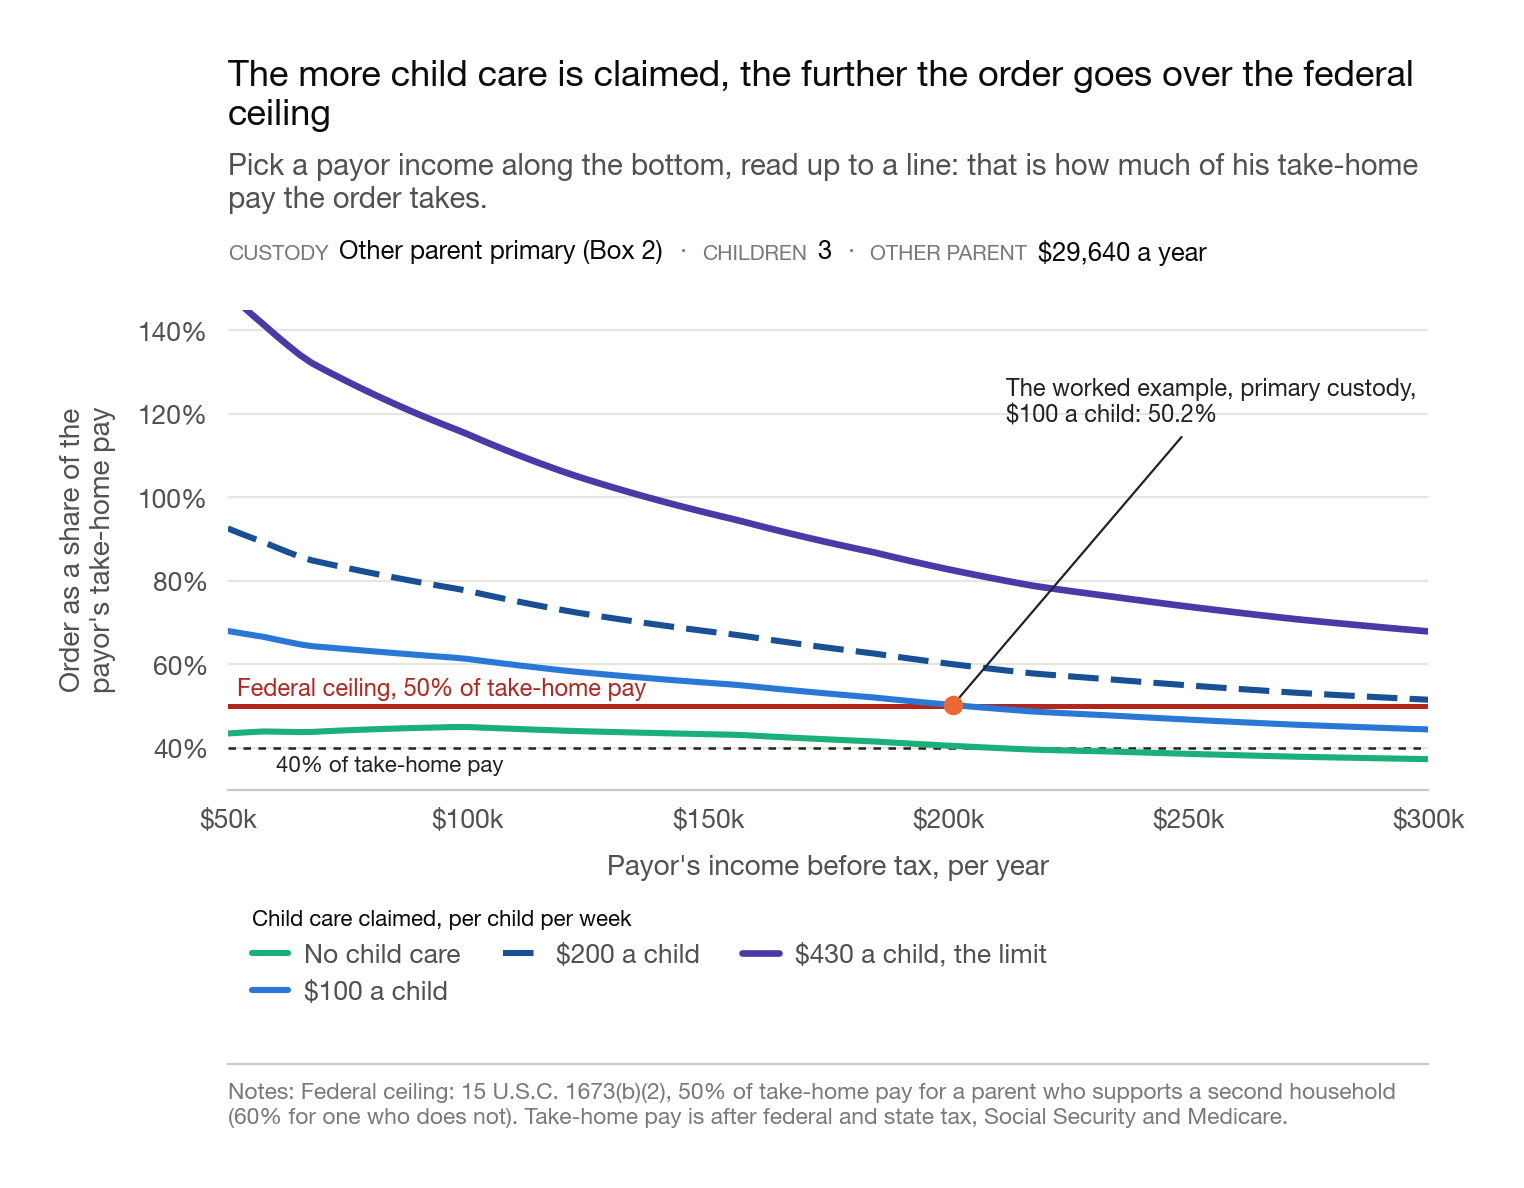
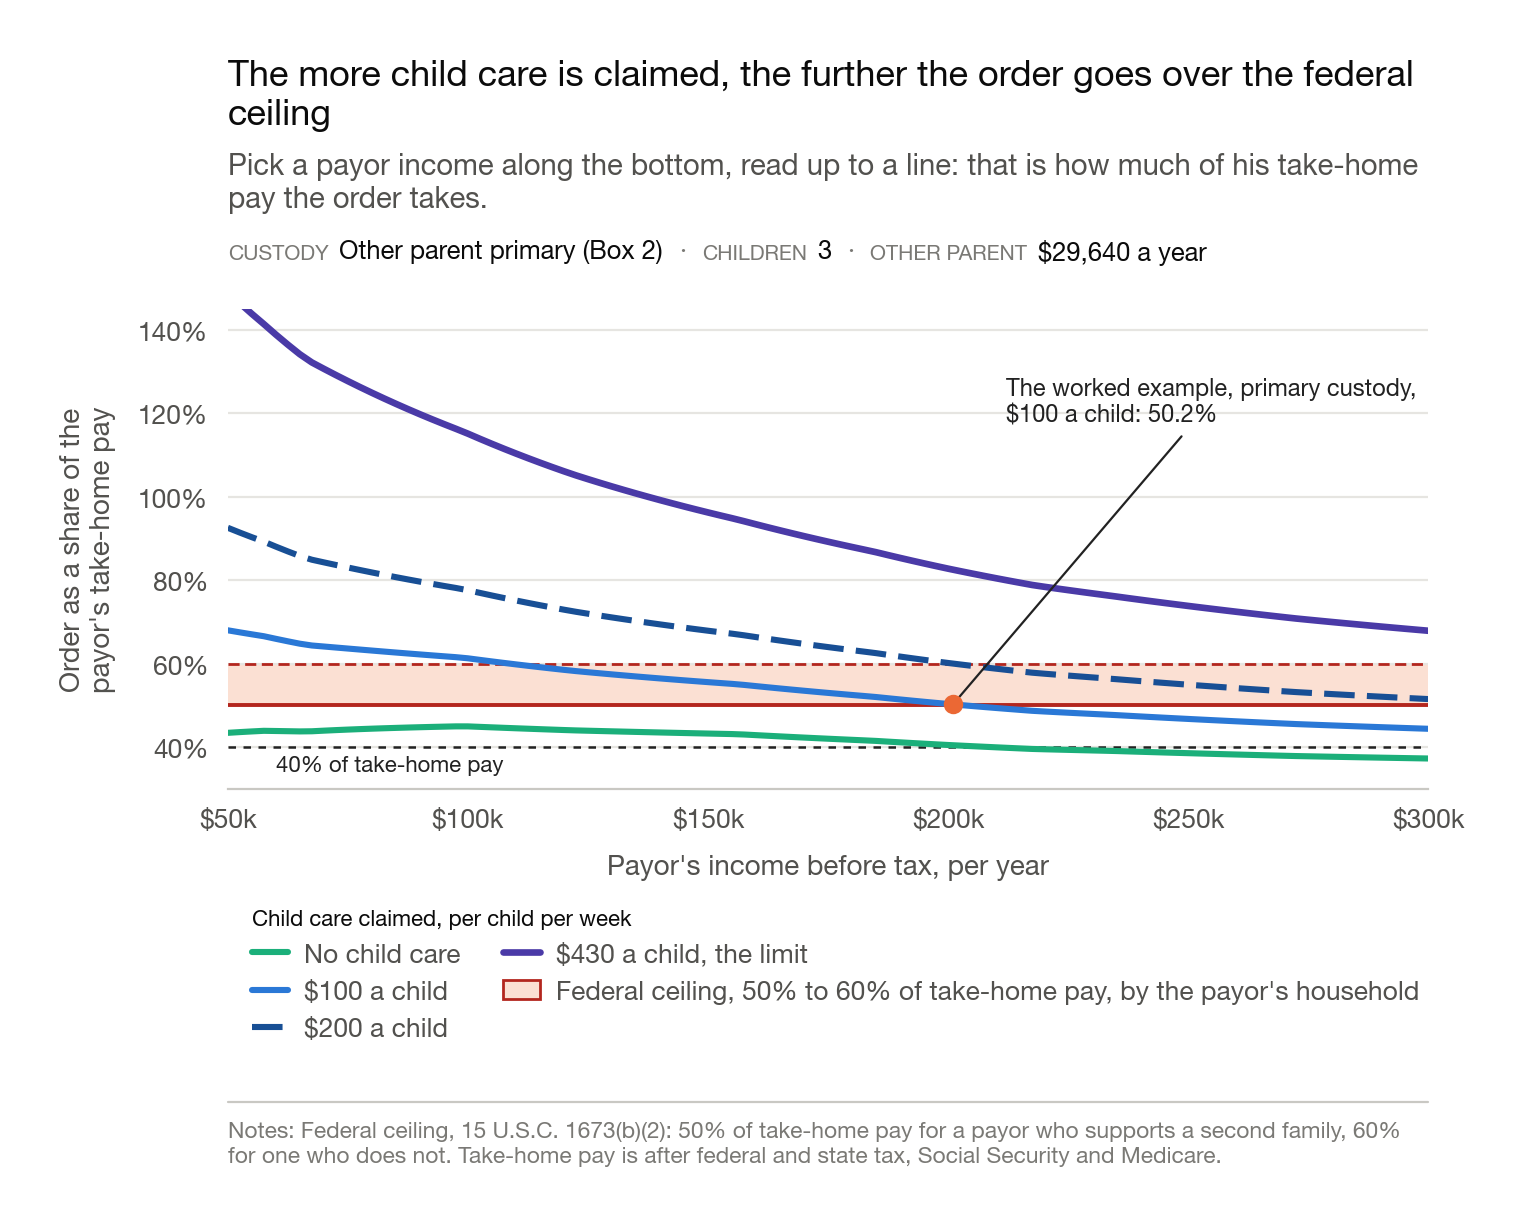
Ceiling charts show the federal ceiling as a 50-60% band by the payor's household; notes and the federal-law page say the Worksheet cannot tell which applies

diff --git a/index.html b/index.html
@@ -44,7 +44,7 @@ scripts:
          alt="Line chart of the share of 1,147 income pairs whose order is above the federal withholding ceiling, as child care claimed rises from $0 to $430 per child per week, for primary custody and for joint custody at equal time."
          title="With child care claimed, the Worksheet produces orders the Commonwealth cannot lawfully collect."
          deck="Share of income pairs whose order is above the federal ceiling, by child care claimed per child per week."
-         notes="Three children. Federal ceiling: 50 percent of take-home pay, 15 U.S.C. § 1673(b)(2). With no child care claimed, no order crosses it."
+         notes="Three children. Federal ceiling, 15 U.S.C. § 1673(b)(2), shown as a band: 50 percent of take-home pay for a payor with a second family, 60 percent for one without. With no child care claimed, no order crosses either."
          source_script="model/ccpa_grid.py"
          csv_href="/figures/working/fig_ceiling_share.csv"
          lazy="false" %}

diff --git a/findings/federal-law/index.md b/findings/federal-law/index.md
@@ -92,7 +92,8 @@ Congress caps what may be withheld from a paycheck for child support at 50 perce
 pay, or 60 percent for a parent with no second family to support, 15 U.S.C. § 1673(b)(2). This site
 calls the 50 percent line the federal ceiling.
 
-That ceiling limits collection, not the order. No federal rule limits how large an order may be,
+The Worksheet has no line for the payor's household, so it cannot tell which of the two ceilings
+applies to the order it sets. That ceiling limits collection, not the order. No federal rule limits how large an order may be,
 so a court can order more than an employer may withhold, and the rest is still owed. The only
 federal rule on the order itself is the ability-to-pay requirement, and it never says what ability
 to pay is.
@@ -108,7 +109,7 @@ the order reaches 186 percent of take-home pay, nearly twice what the parent bri
    alt="Line chart of the share of 1,147 income pairs whose order is above the federal withholding ceiling, as child care claimed rises from $0 to $430 per child per week, for primary custody and for joint custody at equal time."
    title="With child care claimed, the Worksheet produces orders the Commonwealth cannot lawfully collect."
    deck="Share of income pairs whose order is above the federal ceiling, by child care claimed per child per week."
-   notes="Three children. Federal ceiling: 50 percent of take-home pay, 15 U.S.C. § 1673(b)(2). At $100 a child, 40 percent of pairs cross it under primary custody."
+   notes="Three children. Federal ceiling, 15 U.S.C. § 1673(b)(2), shown as a band: 50 percent of take-home pay for a payor with a second family, 60 percent for one without. At $100 a child, 40 percent of pairs cross the 50 percent line under primary custody."
    source_script="model/ccpa_grid.py"
    csv_href="/figures/working/fig_ceiling_share.csv"
    lazy="false" %}
@@ -122,7 +123,7 @@ $60,000 to $100,000 against another parent with little or no income.
    alt="Line chart of the order as a share of the payor's take-home pay across payor incomes from $50,000 to $300,000, with no child care and at $100, $200 and $430 per child per week, against a line for the federal ceiling at 50 percent."
    title="The more child care is claimed, the further the order goes over the federal ceiling."
    deck="The order as a share of the payor's take-home pay, three children, the other parent primary, the other parent earning $29,640 a year."
-   notes="The red line is the federal ceiling, 50 percent of take-home pay. Take-home pay is after federal and state income tax, Social Security and Medicare."
+   notes="The shaded band is the federal ceiling: 50 percent of take-home pay for a payor with a second family, 60 percent for one without. Take-home pay is after federal and state income tax, Social Security and Medicare."
    source_script="model/ccpa_grid.py"
    csv_href="/figures/working/fig_ceiling_by_income.csv" %}
 
@@ -132,7 +133,7 @@ $60,000 to $100,000 against another parent with little or no income.
    alt="Grid of 1,147 income pairs, payor income across and other parent's income up, shaded where the order at $100 of child care per child is over the federal ceiling."
    title="At $100 a child, 40 percent of income pairs produce an order over the federal ceiling."
    deck="Each square is one pair of incomes: the Worksheet's order with $300 a week of child care claimed for three children, primary custody."
-   notes="Red squares are over the federal ceiling, 50 percent of take-home pay. Hatched squares are pairs where the other parent would be the higher earner."
+   notes="Dark squares are over both federal ceilings (60 percent); light squares are over the 50 percent ceiling that applies to a payor with a second family. Hatched squares are pairs where the other parent would be the higher earner."
    source_script="model/ccpa_grid.py"
    csv_href="/figures/working/fig_ceiling_grid.csv" %}
 

diff --git a/exhibits/index.md b/exhibits/index.md
@@ -72,7 +72,7 @@ argument.</p>
    alt="Line chart of the share of 1,147 income pairs whose order is above the federal withholding ceiling, as child care claimed rises from $0 to $430 per child per week, for primary custody and for joint custody at equal time."
    title="With child care claimed, the Worksheet produces orders the Commonwealth cannot lawfully collect."
    deck="Share of income pairs whose order is above the federal ceiling, by child care claimed per child per week."
-   notes="Three children. The federal ceiling is 50 percent of take-home pay, 15 U.S.C. § 1673(b)(2). At $100 a child, 40 percent of pairs cross it under primary custody."
+   notes="Three children. Federal ceiling, 15 U.S.C. § 1673(b)(2), shown as a band: 50 percent of take-home pay for a payor with a second family, 60 percent for one without. At $100 a child, 40 percent of pairs cross the 50 percent line under primary custody."
    source_script="model/ccpa_grid.py"
    csv_href="/figures/working/fig_ceiling_share.csv"
    lazy="false" %}
@@ -83,7 +83,7 @@ argument.</p>
    alt="Line chart of the order as a share of the payor's take-home pay across payor incomes from $50,000 to $300,000, with no child care and at $100, $200 and $430 per child per week, against the federal ceiling of 50 percent of take-home pay."
    title="The more child care is claimed, the further the order goes over the federal ceiling."
    deck="The order as a share of the payor's take-home pay, three children, the other parent primary, the other parent earning $29,640 a year."
-   notes="The red line is the federal ceiling, 50 percent of take-home pay. Take-home pay is after federal and state income tax, Social Security and Medicare."
+   notes="The shaded band is the federal ceiling: 50 percent of take-home pay for a payor with a second family, 60 percent for one without. Take-home pay is after federal and state income tax, Social Security and Medicare."
    source_script="model/ccpa_grid.py"
    csv_href="/figures/working/fig_ceiling_by_income.csv" %}
 
@@ -93,7 +93,7 @@ argument.</p>
    alt="Grid of 1,147 income pairs, payor income across and other parent's income up, shaded where the order at $100 of child care per child is over the federal ceiling."
    title="At $100 a child, 40 percent of income pairs produce an order over the federal ceiling."
    deck="Each square is one pair of incomes: the Worksheet's order with $300 a week of child care claimed for three children, primary custody."
-   notes="Orange squares are over the federal ceiling. Hatched squares are pairs where the other parent would be the higher earner."
+   notes="Dark squares are over both federal ceilings (60 percent); light squares are over the 50 percent ceiling that applies to a payor with a second family. Hatched squares are pairs where the other parent would be the higher earner."
    source_script="model/ccpa_grid.py"
    csv_href="/figures/working/fig_ceiling_grid.csv" %}
 

diff --git a/findings/index.md b/findings/index.md
@@ -47,7 +47,7 @@ child care claimed, none do.
    alt="Grid of 1,147 income pairs, payor income across and other parent's income up, shaded where the order at $100 of child care per child is over the federal ceiling."
    title="At $100 a child, 40 percent of income pairs produce an order over the federal ceiling."
    deck="Each square is one pair of incomes: the Worksheet's order with $300 a week of child care claimed for three children, primary custody."
-   notes="Red squares are over the federal ceiling, 50 percent of take-home pay. Hatched squares are pairs where the other parent would be the higher earner."
+   notes="Dark squares are over both federal ceilings (60 percent); light squares are over the 50 percent ceiling that applies to a payor with a second family. Hatched squares are pairs where the other parent would be the higher earner."
    source_script="model/ccpa_grid.py"
    csv_href="/figures/working/fig_ceiling_grid.csv"
    lazy="false" %}
